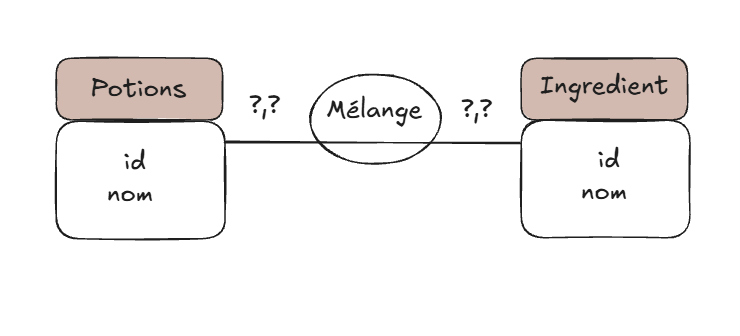
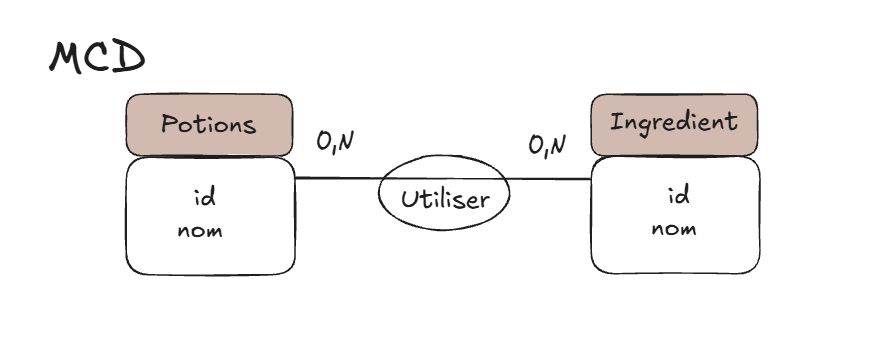
add new MCD complete, and modified read.md for MPD

diff --git a/read.md b/read.md
@@ -10,6 +10,8 @@ Il y a mon MCD fait sur excalidraw: je n'est pas capter encore la cardinalité d
 
 [Supabase](https://supabase.com/dashboard/project/kuycbfuartnvywqbttgd)
 
+![image](MCD.png)
+
 **MySQL 04.2 - Les bases de la modélisation : MLD**
 
 Pour bien commencer j'ai du mieux comprendre le MCD (cardinalité)
@@ -17,3 +19,37 @@ Pour bien commencer j'ai du mieux comprendre le MCD (cardinalité)
 1. Que ferais-tu dans ce cas ? Côté wizard ou côté pet ? -> je choisis l'une des deux tables pour y mettre ma clé étrangère.
 
 2. Realisation du schéma MDL ![image](MDL.png)
+
+**MySQL 04.3 - Les bases de la modélisation : MPD**
+
+1. on créer les tables pour les entitées.
+
+```
+CREATE TABLE potion (
+    id INT PRIMARY KEY AUTO_INCREMENT,
+    name VARCHAR(40) NOT NULL,
+);
+CREATE TABLE ingredient(
+    id INT PRIMARY KEY AUTO_INCREMENT,
+    name VARCHAR(40) NOT NULL,
+);
+```
+
+2.  on créer la table pour la clé étrangère
+
+```
+CREATE TABLE etagere (
+    ingredient_id INT NOT NULL,
+    potion_id INT NOT NULL,
+
+    CONSTRAINT fk_etagere,
+        FOREIGN KEY (potion_id),
+        REFERENCES potion(id),
+
+    CONSTRAINT fk_etagere2,
+        FOREIGN KEY (ingredient_id),
+        REFERENCES ingredient(id),
+);
+```
+
+PS: a partir de cette exercices j'ai mieux compris la cardinalité. Le liens de potion et de ingrediens sont tout deux (0,N) : la potion est utilisé a l'ingrédients 0 a N de fois et les ingrédients sont utilisé 0 a N de fois.
